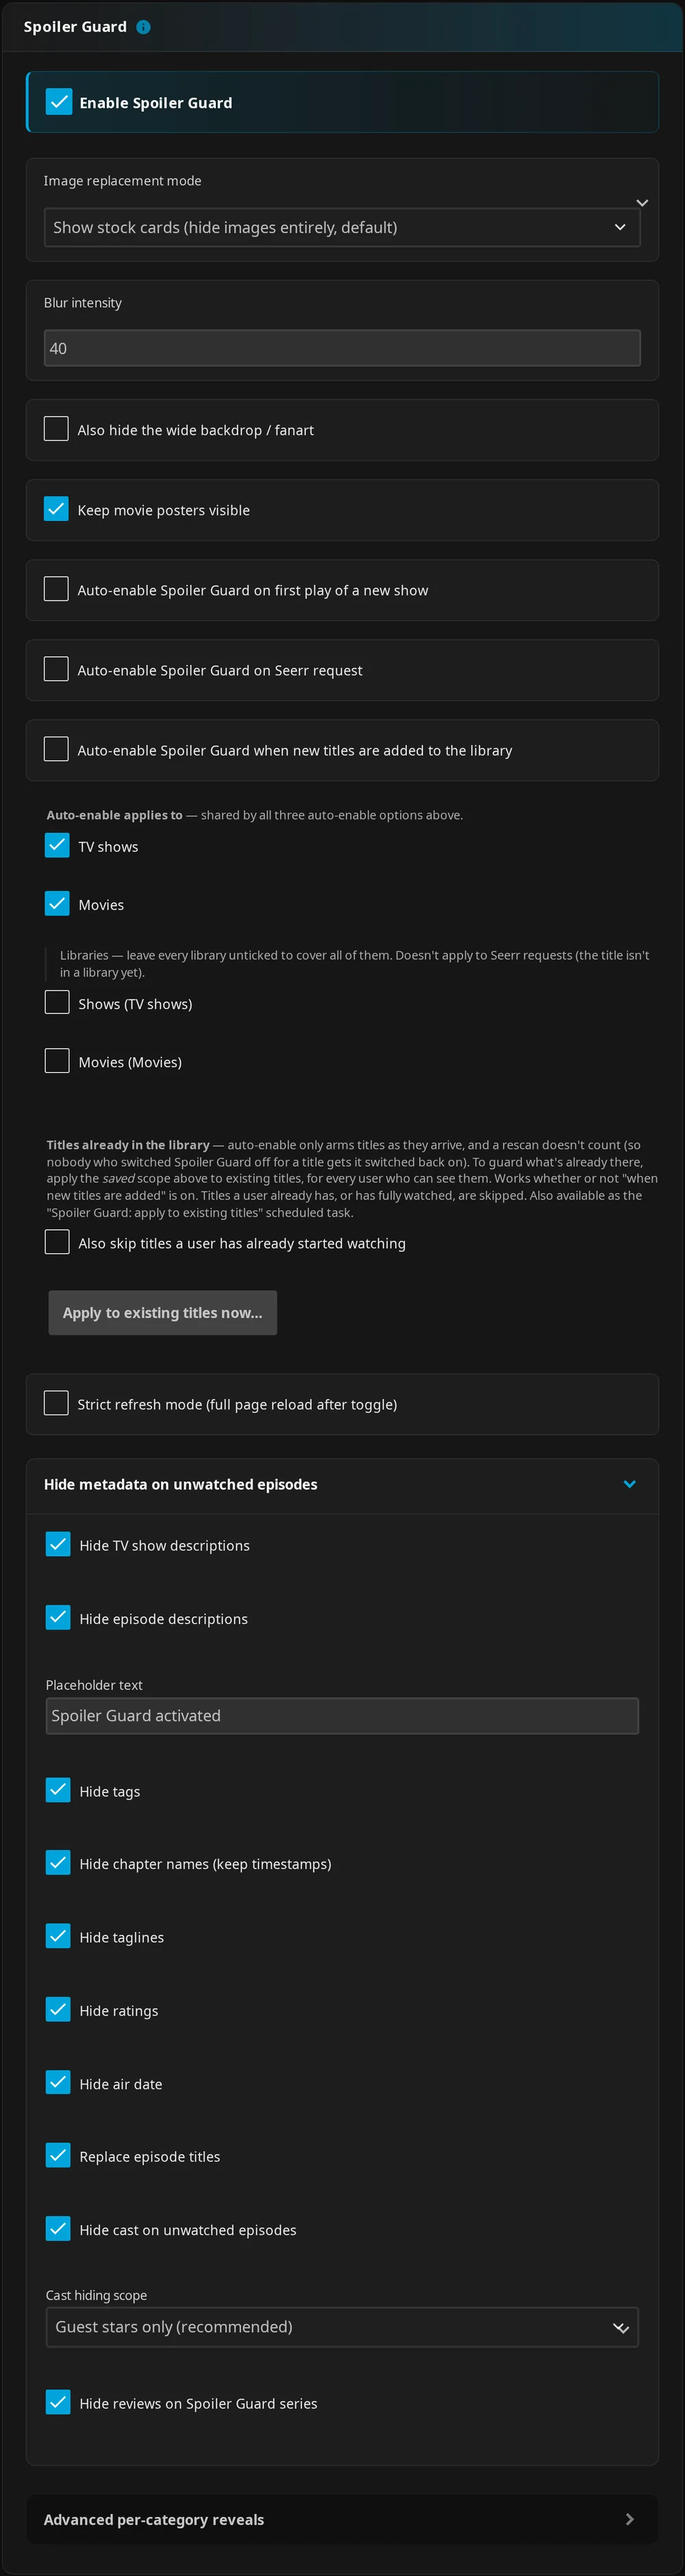
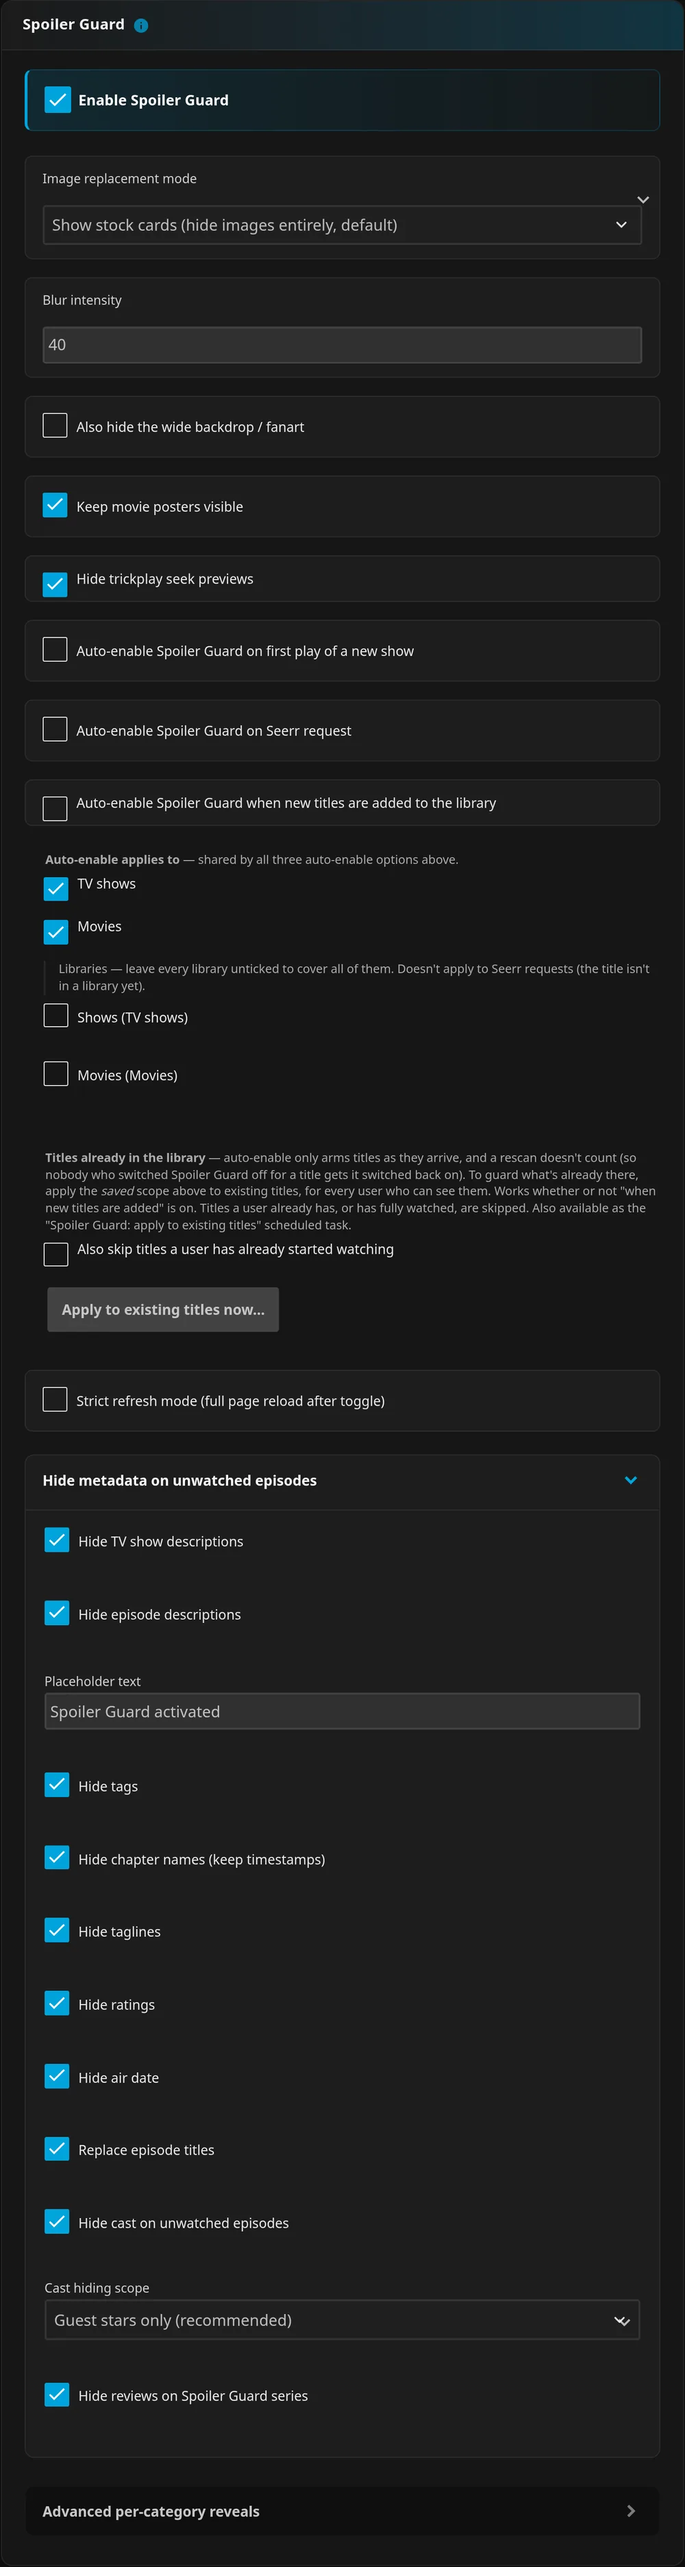
fix(spoiler-guard): translate the Seek previews row and refresh the admin screenshot
JE.t has no English fallback, so the new per-user row showed raw key
names for every locale except en. Adds both strings to all locales.

Also recaptures the admin Spoiler Guard settings screenshot with the new
checkbox and narrows the shared-address note: played-state and
saved-progress reveals still follow the first matching user.

Refs #947

diff --git a/docs/spoiler-guard/spoiler-guard-settings.md b/docs/spoiler-guard/spoiler-guard-settings.md
@@ -433,7 +433,7 @@ Changes save immediately. Only admin-enabled categories appear; **Advanced per-c
 
 ??? note "Preference storage and limits"
 
-    Users cannot enable a protection category the admin disabled. **Seek previews** is the only image policy with a per-user override; other image replacement follows admin policy. On a shared address where JE cannot tell which signed-in user fetched a preview, it stays protected unless every matching user unchecked **Seek previews**. If initial state loading fails, preference controls are disabled to avoid overwriting unknown state.
+    Users cannot enable a protection category the admin disabled. **Seek previews** is the only image policy with a per-user override; other image replacement follows admin policy. On a shared address where JE cannot tell which signed-in user fetched a preview, the opt-out applies only when every user whose protection covers the item unchecked **Seek previews**; played-state and saved-progress reveals still follow the first such user. If initial state loading fails, preference controls are disabled to avoid overwriting unknown state.
 
     Checking a category saves `null` (inherit); unchecking saves `false`. The inherited defaults are nullable. **Don't ask me to confirm when turning Spoiler Guard off** defaults to `false`. These preferences live in `UserSpoilerBlur.Prefs` within `spoilerblur.json`.
 
